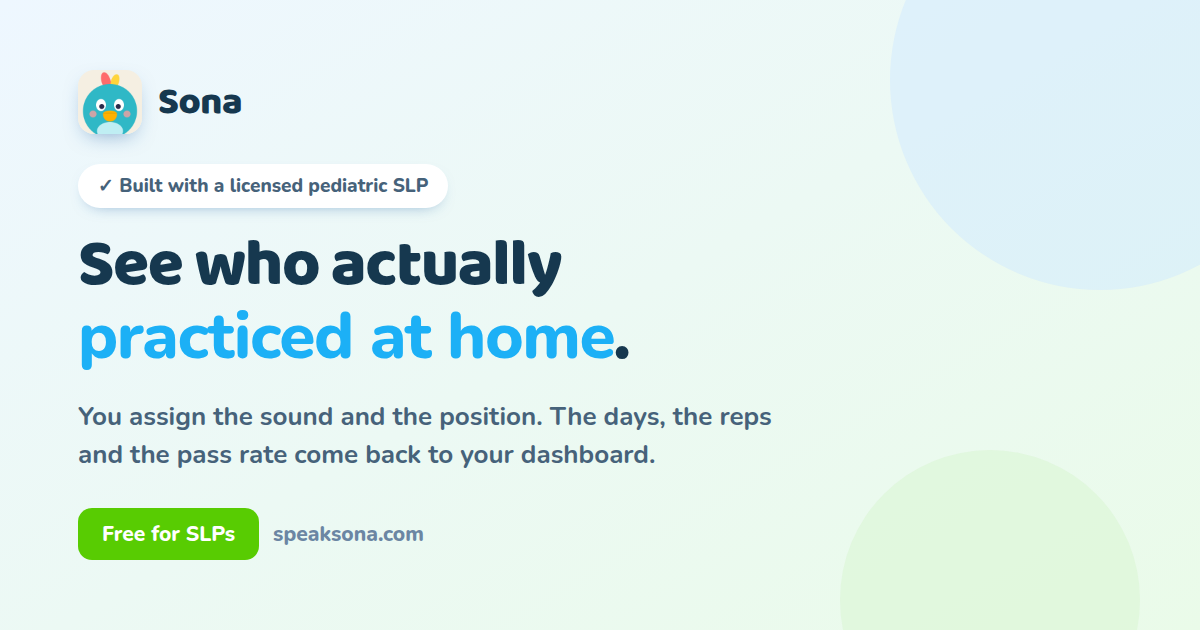
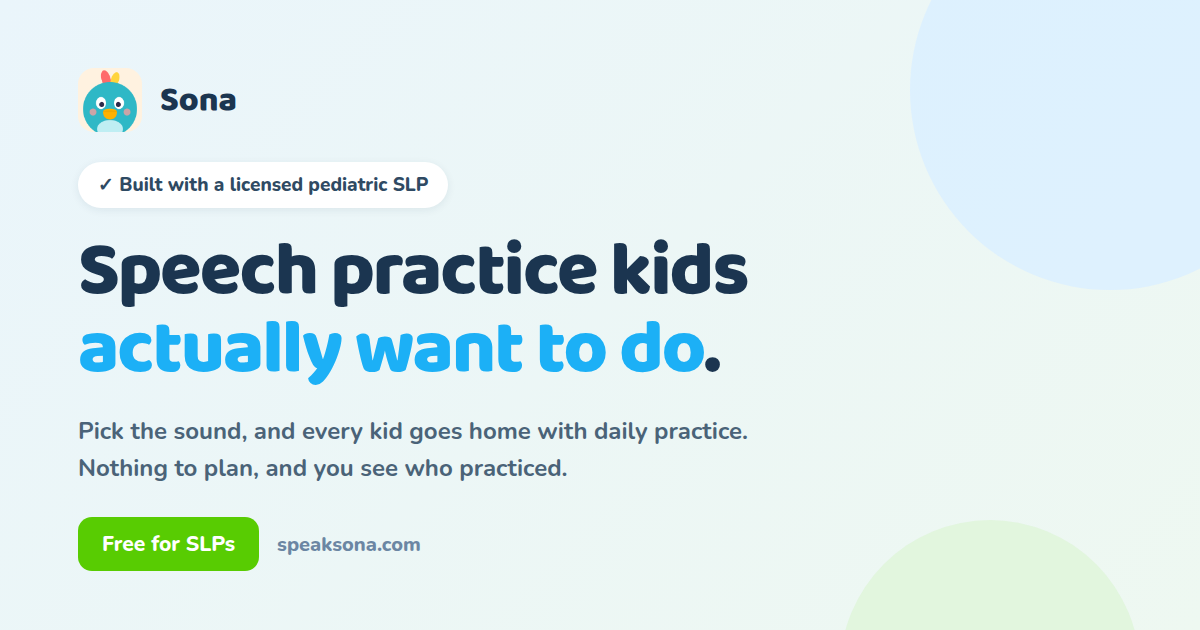
speaksona.com: "Speech practice kids actually want to do."; header is For parents and Sign in (#142)
New headline and lede (nothing to plan, see who practiced); tab title, share tags and og-slp.png match and are pinned together; the header keeps only For parents and Sign in.

Claude-Session: https://claude.ai/code/session_01TRE3r5dQQP5QchxL1vFraB

diff --git a/public/for-slps.html b/public/for-slps.html
@@ -19,7 +19,7 @@
 })();
   </script>
   <meta name="viewport" content="width=device-width, initial-scale=1, viewport-fit=cover" />
-  <title>See who practiced at home — Sona for SLPs</title>
+  <title>Speech practice kids actually want to do — Sona for SLPs</title>
   <!-- speaksona.com. next.config.js rewrites / to this file, so this is the
        page the ads land on and the one a clinician finds by searching.
        Indexable on purpose; the dashboard, its login and the family's
@@ -40,15 +40,15 @@
   <meta property="og:type" content="website" />
   <meta property="og:site_name" content="Sona" />
   <meta property="og:url" content="https://speaksona.com/" />
-  <meta property="og:title" content="See who actually practiced at home." />
-  <meta property="og:description" content="Give every family on your caseload free daily speech practice at home. You assign the sound and the position; the days, the reps and the pass rate come back to your dashboard." />
+  <meta property="og:title" content="Speech practice kids actually want to do." />
+  <meta property="og:description" content="Pick the sound, and every kid on your caseload goes home with a few minutes of practice a day with Echo, free. Nothing to plan, and you see who practiced." />
   <meta property="og:image" content="https://speaksona.com/og-slp.png" />
   <meta property="og:image:width" content="1200" />
   <meta property="og:image:height" content="630" />
-  <meta property="og:image:alt" content="Sona for SLPs — see who actually practiced at home. Free for SLPs." />
+  <meta property="og:image:alt" content="Sona for SLPs — speech practice kids actually want to do. Free for SLPs." />
   <meta name="twitter:card" content="summary_large_image" />
-  <meta name="twitter:title" content="See who actually practiced at home." />
-  <meta name="twitter:description" content="Free home practice for your whole caseload. You assign the sound; the practice comes back to your dashboard." />
+  <meta name="twitter:title" content="Speech practice kids actually want to do." />
+  <meta name="twitter:description" content="Pick the sound; every kid goes home with daily practice, free. Nothing to plan, and you see who practiced." />
   <meta name="twitter:image" content="https://speaksona.com/og-slp.png" />
 
   <!-- The bird with no card behind him. The home-screen icon keeps its
@@ -239,8 +239,6 @@
       <b>Sona</b><span>for SLPs</span>
     </a>
     <nav>
-      <a class="nl" href="#how">How it works</a>
-      <a class="nl" href="#privacy">Privacy</a>
       <a class="parents" id="forParents" href="/families">For parents</a>
       <a class="signin" href="/slp-login.html">Sign in</a>
     </nav>
@@ -265,8 +263,12 @@
 <section class="wrap hero">
   <div class="hero-l">
     <div class="pill">Built with a licensed pediatric SLP</div>
-    <h1>See who actually practiced at home.</h1>
-    <p class="lede">You assign the sound. Kids practice it with Echo between sessions. The days, reps and pass rate come back to your dashboard.</p>
+    <!-- THE PROMISE (24 Sep 2026). Travis's headline — practice a kid wants to
+         do — and Rachel's reason an SLP signs up, in the lede: something to
+         send every kid home with, without having to plan it. Seeing who
+         practiced is the third half, and stays. -->
+    <h1>Speech practice kids actually want to do.</h1>
+    <p class="lede">Pick the sound, and every kid goes home with a few minutes of practice a day with Echo. Nothing to plan, and you see who practiced.</p>
 
     <!-- THE SIGN-UP. First name and email, one button. The name is the
          clinician's own — it goes on the account, into the CRM and into the
